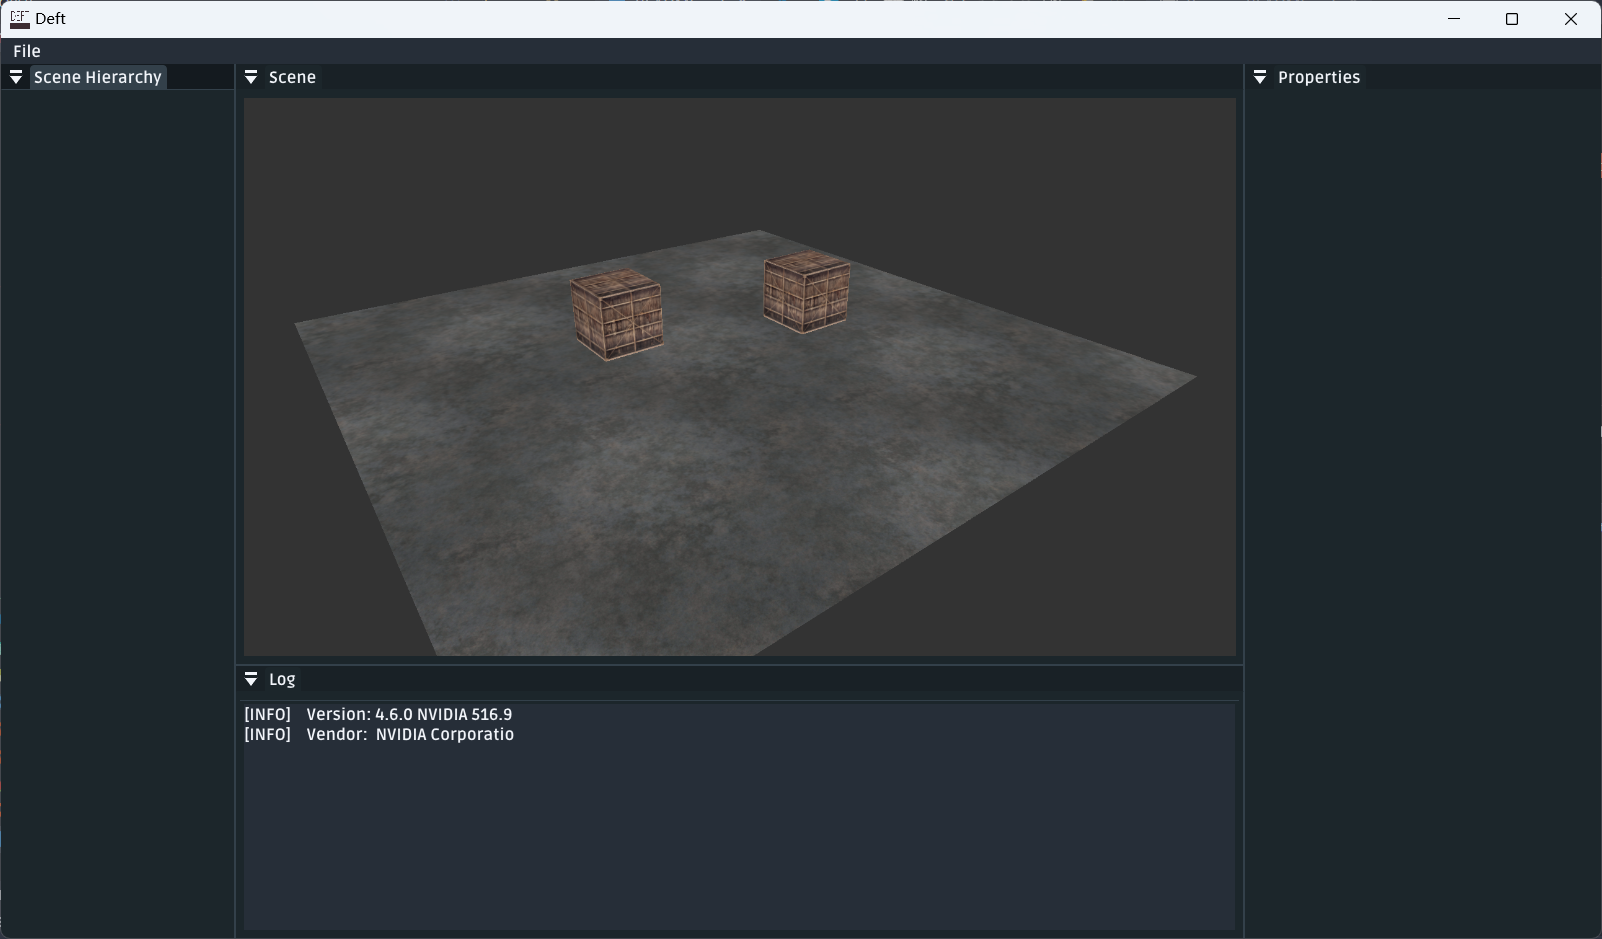
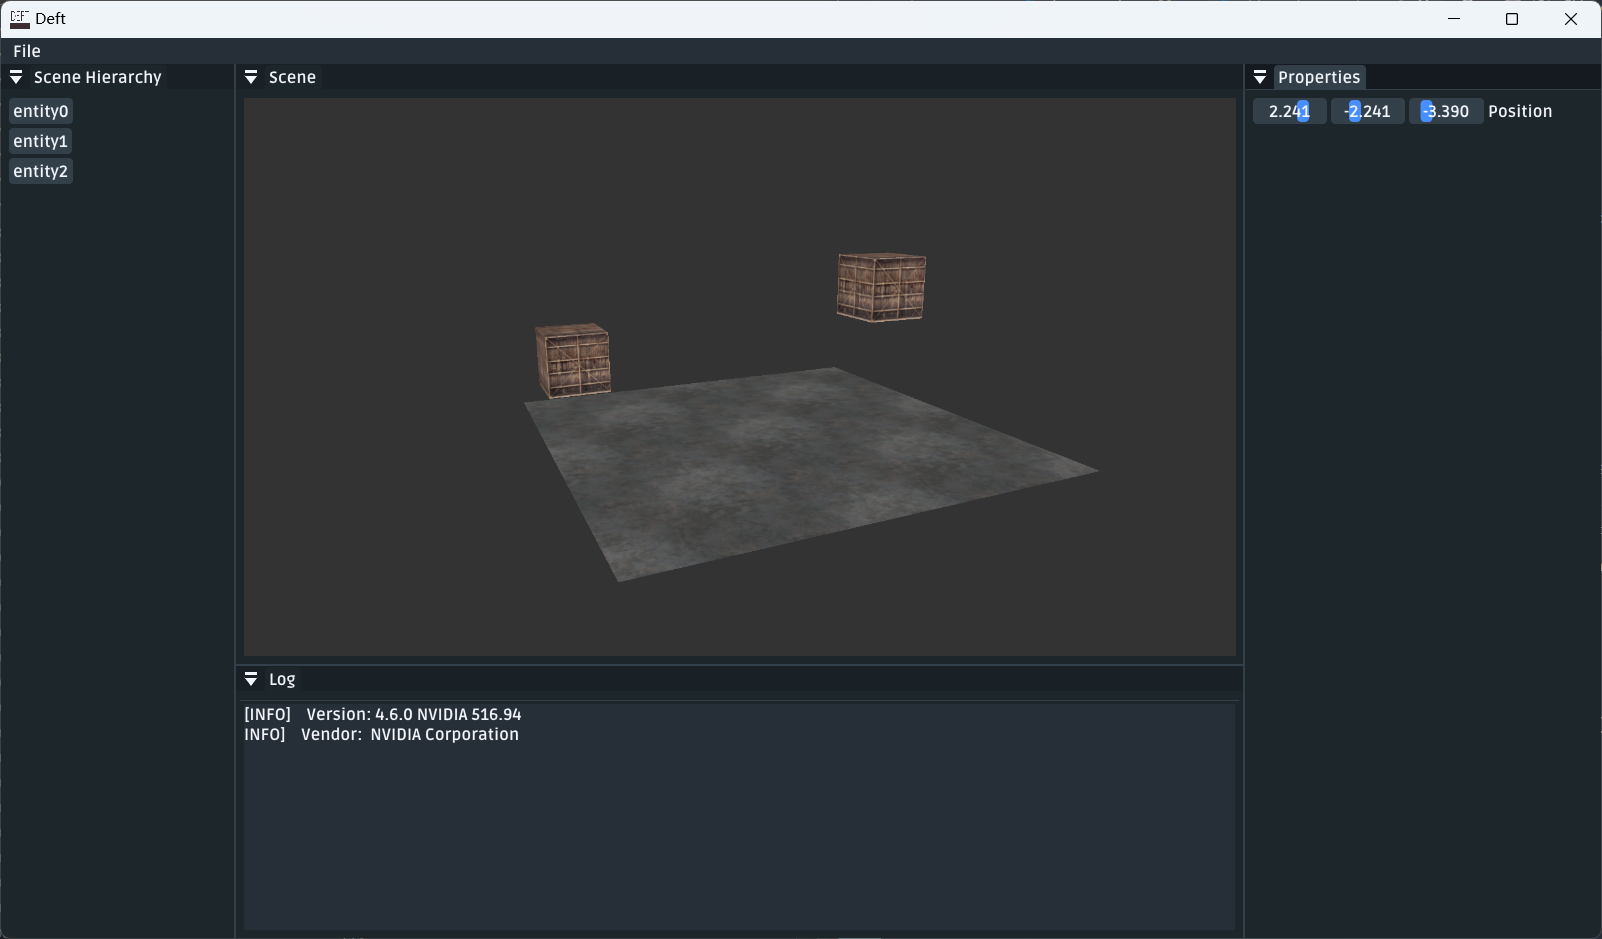
✨ feat(gui): 可以通过 gui 简单控制场景内物体

diff --git a/source/deft/scene/scene.cpp b/source/deft/scene/scene.cpp
@@ -61,7 +61,7 @@ Scene::Scene() {
 
               }),
           Texture::Create("assets/texture/container.jpg")),
-      std::make_shared<Transform>(math::Vector3(-1.0f, 0.0f, -1.0f))));
+      Transform(math::Vector3(-1.0f, 0.0f, -1.0f))));
 
   _objects.emplace_back(std::make_shared<SceneObject>(
       Model::Create(
@@ -112,7 +112,7 @@ Scene::Scene() {
 
               }),
           Texture::Create("assets/texture/container.jpg")),
-      std::make_shared<Transform>(math::Vector3(2.0f, 0.0f, 1.0f))));
+      Transform(math::Vector3(2.0f, 0.0f, 1.0f))));
 
   _objects.emplace_back(std::make_shared<SceneObject>(
       Model::Create(
@@ -132,7 +132,7 @@ Scene::Scene() {
                   0, 1, 2, 0, 2, 3,  //
               }),
           Texture::Create("assets/texture/metal.png")),
-      std::make_shared<Transform>(math::Vector3(0.0f, 0.0f, 0.0f))));
+      Transform(math::Vector3(0.0f, 0.0f, 0.0f))));
 
   _shader = std::make_shared<Shader>("assets/shader/default.vert",
                                      "assets/shader/default.frag");
@@ -149,8 +149,7 @@ void Scene::render(Renderer& render) {
   glClear(GL_COLOR_BUFFER_BIT | GL_DEPTH_BUFFER_BIT);
 
   for (auto& object : _objects) {
-    render.submit(object->getModel(), _shader,
-                  object->getTransform()->position);
+    render.submit(object->getModel(), _shader, object->getTransform().position);
   }
 
   _frameBuffer->unBind();

diff --git a/source/deft/app/application.cpp b/source/deft/app/application.cpp
@@ -14,6 +14,8 @@ namespace deft {
 
 Application* Application::_s_instance;
 
+Registry g_registry;
+
 Application::Application() {
   if (_s_instance) {
     LOG_CORE_FATAL(
@@ -22,6 +24,10 @@ Application::Application() {
   }
   _s_instance = this;
 
+  g_registry.init();
+  g_registry.registerComponent<Transform>();
+  g_registry.registerComponent<CameraTransform>();
+
   _window           = std::make_unique<Window>(1600, 900, "Deft");
   _context          = std::make_unique<GraphicContext>(_window->getHandler());
   _scene            = std::make_shared<Scene>();
@@ -29,10 +35,6 @@ Application::Application() {
   _inputManager     = std::make_unique<InputManager>(_window->getHandler());
   _gui              = std::make_unique<Gui>();
   _cameraController = std::make_shared<CameraController>();
-
-  _registry.init();
-  _registry.registerComponent<Transform>();
-  _registry.registerComponent<CameraTransform>();
 }
 
 Application::~Application() {}
@@ -97,7 +99,5 @@ Window& Application::getWindow() { return *_window; }
 InputManager& Application::getInputManager() { return *_inputManager; }
 
 std::shared_ptr<Scene>& Application::getScene() { return _scene; }
-
-Registry& Application::getRegistry() { return _registry; }
 
 }  // namespace deft

diff --git a/source/deft/ecs/ecs.h b/source/deft/ecs/ecs.h
@@ -11,6 +11,7 @@
 #include <queue>
 #include <set>
 #include <unordered_map>
+#include <vector>
 
 namespace deft {
 
@@ -320,9 +321,16 @@ class Registry {
   }
 
   // Entity methods
-  Entity createEntity() { return _entityManager->createEntity(); }
+  Entity createEntity() {
+    Entity entity = _entityManager->createEntity();
+    _entities.push_back(entity);
+    return entity;
+  }
 
   void destroyEntity(Entity entity) {
+    auto iter = std::find(_entities.begin(), _entities.end(), entity);
+    _entities.erase(iter);
+
     _entityManager->destroyEntity(entity);
 
     _componentManager->entityDestroyed(entity);
@@ -379,11 +387,17 @@ class Registry {
     _systemManager->setSignature<T>(signature);
   }
 
+  std::vector<Entity>& getEntiesUsed() { return _entities; }
+
  private:
   std::unique_ptr<ComponentManager> _componentManager;
   std::unique_ptr<EntityManager>    _entityManager;
   std::unique_ptr<SystemManager>    _systemManager;
+
+  std::vector<Entity> _entities;
 };
+
+extern Registry g_registry;
 
 }  // namespace deft
 

diff --git a/source/deft/gui/gui.cpp b/source/deft/gui/gui.cpp
@@ -10,6 +10,8 @@
 // clang-format on
 
 #include "app/application.h"
+#include "log/log.h"
+#include "ecs/ecs.h"
 
 namespace deft {
 
@@ -17,9 +19,11 @@ Gui::Gui() {
   init();
   initStyle();
 
-  _logPanel   = std::make_shared<LogPanel>();
-  _scenePanel = std::make_shared<ScenePanel>();
-  _menuBar    = std::make_shared<MenuBar>();
+  _logPanel        = std::make_shared<LogPanel>();
+  _scenePanel      = std::make_shared<ScenePanel>();
+  _menuBar         = std::make_shared<MenuBar>();
+  _hierarchyPanel  = std::make_shared<HierarchyPanel>();
+  _propertiesPanel = std::make_shared<PropertiesPanel>();
 }
 
 Gui::~Gui() {
@@ -103,11 +107,11 @@ void Gui::update() {
   // 绘制日志
   _logPanel->update();
 
-  ImGui::Begin("Properties");
-  ImGui::End();
+  // 绘制实体列表
+  _hierarchyPanel->update();
 
-  ImGui::Begin("Scene Hierarchy");
-  ImGui::End();
+  // 绘制实体属性
+  _propertiesPanel->update(_hierarchyPanel);
 
   ImGui::End();
 }

diff --git a/source/deft/scene/scene_object.cpp b/source/deft/scene/scene_object.cpp
@@ -1,15 +1,23 @@
 #include "scene/scene_object.h"
 
+#include "log/log.h"
+
 namespace deft {
 
-SceneObject::SceneObject(const std::shared_ptr<Model>&     model,
-                         const std::shared_ptr<Transform>& transform)
-    : _model(model), _transform(transform) {}
+SceneObject::SceneObject(const std::shared_ptr<Model>& model,
+                         const Transform&              transform)
+    : _model(model), _entityId(g_registry.createEntity()) {
+  g_registry.addComponent<Transform>(_entityId, transform);
+  LOG_CORE_INFO("entity id = %d", static_cast<int>(_entityId));
+}
 
 SceneObject::~SceneObject() {}
 
 std::shared_ptr<Model>& SceneObject::getModel() { return _model; }
 
-std::shared_ptr<Transform>& SceneObject::getTransform() { return _transform; }
+Transform& SceneObject::getTransform() {
+  auto& transform = g_registry.getComponent<Transform>(_entityId);
+  return transform;
+}
 
 }  // namespace deft

diff --git a/source/deft/gui/gui.h b/source/deft/gui/gui.h
@@ -3,8 +3,10 @@
 
 #include <memory>
 
+#include "gui/hierarchy_panel.h"
 #include "gui/log_panel.h"
 #include "gui/menu_bar.h"
+#include "gui/properties_panel.h"
 #include "gui/scene_panel.h"
 #include "scene/scene.h"
 
@@ -27,9 +29,14 @@ class Gui {
   void initStyle();
 
  private:
-  std::shared_ptr<LogPanel>   _logPanel;
-  std::shared_ptr<ScenePanel> _scenePanel;
-  std::shared_ptr<MenuBar>    _menuBar;
+  std::shared_ptr<LogPanel>        _logPanel;
+  std::shared_ptr<ScenePanel>      _scenePanel;
+  std::shared_ptr<MenuBar>         _menuBar;
+  std::shared_ptr<HierarchyPanel>  _hierarchyPanel;
+  std::shared_ptr<PropertiesPanel> _propertiesPanel;
+
+  Entity _selectedEntity;
+  bool   selected = false;
 };
 
 }  // namespace deft

diff --git a/source/deft/scene/scene_object.h b/source/deft/scene/scene_object.h
@@ -4,23 +4,23 @@
 #include <memory>
 
 #include "components/transform.h"
+#include "ecs/ecs.h"
 #include "render/model.h"
 
 namespace deft {
 
 class SceneObject {
  public:
-  SceneObject(const std::shared_ptr<Model>&     model,
-              const std::shared_ptr<Transform>& transform);
+  SceneObject(const std::shared_ptr<Model>& model, const Transform& transform);
   ~SceneObject();
 
-  std::shared_ptr<Model>&     getModel();
-  std::shared_ptr<Transform>& getTransform();
+  std::shared_ptr<Model>& getModel();
+  Transform&              getTransform();
 
  private:
-  std::shared_ptr<Model> _model;
+  Entity _entityId;
 
-  std::shared_ptr<Transform> _transform;
+  std::shared_ptr<Model> _model;
 };
 
 }  // namespace deft

diff --git a/source/deft/gui/hierarchy_panel.cpp b/source/deft/gui/hierarchy_panel.cpp
@@ -1,0 +1,28 @@
+#include "gui/hierarchy_panel.h"
+
+#include <imgui.h>
+
+namespace deft {
+
+HierarchyPanel::HierarchyPanel() {}
+
+HierarchyPanel::~HierarchyPanel() {}
+
+void HierarchyPanel::update() {
+  ImGui::Begin("Scene Hierarchy");
+  for (auto& entity : g_registry.getEntiesUsed()) {
+    std::string str = "entity" + std::to_string(static_cast<int>(entity));
+    if (ImGui::Button(str.c_str())) {
+      _selected       = true;
+      _selectedEntity = entity;
+    }
+  }
+
+  ImGui::End();
+}
+
+Entity HierarchyPanel::getSelectedEntity() { return _selectedEntity; }
+
+bool HierarchyPanel::haveSelectedEntity() { return _selected; }
+
+}  // namespace deft

diff --git a/source/deft/gui/properties_panel.cpp b/source/deft/gui/properties_panel.cpp
@@ -1,0 +1,24 @@
+#include "gui/properties_panel.h"
+
+#include <imgui.h>
+
+#include "components/transform.h"
+
+namespace deft {
+
+PropertiesPanel::PropertiesPanel() {}
+
+PropertiesPanel::~PropertiesPanel() {}
+
+void PropertiesPanel::update(
+    const std::shared_ptr<HierarchyPanel>& hierarchyPanel) {
+  ImGui::Begin("Properties");
+  if (hierarchyPanel->haveSelectedEntity()) {
+    auto& transform =
+        g_registry.getComponent<Transform>(hierarchyPanel->getSelectedEntity());
+    ImGui::SliderFloat3("Position", &transform.position.x, -5.0f, 5.0f);
+  }
+  ImGui::End();
+}
+
+}  // namespace deft

diff --git a/source/deft/app/application.h b/source/deft/app/application.h
@@ -26,7 +26,6 @@ class Application {
   Window&                 getWindow();
   InputManager&           getInputManager();
   std::shared_ptr<Scene>& getScene();
-  Registry&               getRegistry();
 
  private:
   std::unique_ptr<Window>           _window;
@@ -36,8 +35,6 @@ class Application {
   std::unique_ptr<Renderer>         _renderer;
   std::unique_ptr<Gui>              _gui;
   std::shared_ptr<CameraController> _cameraController;
-
-  Registry _registry;
 
   static Application* _s_instance;
 };

diff --git a/source/deft/gui/hierarchy_panel.h b/source/deft/gui/hierarchy_panel.h
@@ -1,0 +1,25 @@
+#ifndef __DEFT_HIERARCHY_PANEL_H__
+#define __DEFT_HIERARCHY_PANEL_H__
+
+#include "ecs/ecs.h"
+
+namespace deft {
+
+class HierarchyPanel {
+ public:
+  HierarchyPanel();
+  ~HierarchyPanel();
+
+  void update();
+
+  Entity getSelectedEntity();
+  bool   haveSelectedEntity();
+
+ private:
+  Entity _selectedEntity;
+  bool   _selected = false;
+};
+
+}  // namespace deft
+
+#endif  // __DEFT_HIERARCHY_PANEL_H__

diff --git a/source/deft/gui/properties_panel.h b/source/deft/gui/properties_panel.h
@@ -1,0 +1,23 @@
+#ifndef __DEFT_PROPERTIES_PANEL_H__
+#define __DEFT_PROPERTIES_PANEL_H__
+
+#include <memory>
+
+#include "ecs/ecs.h"
+#include "gui/hierarchy_panel.h"
+
+namespace deft {
+
+class PropertiesPanel {
+ public:
+  PropertiesPanel();
+  ~PropertiesPanel();
+
+  void update(const std::shared_ptr<HierarchyPanel>& hierarchyPanel);
+
+ private:
+};
+
+}  // namespace deft
+
+#endif  //__DEFT_PROPERTIES_PANEL_H__
